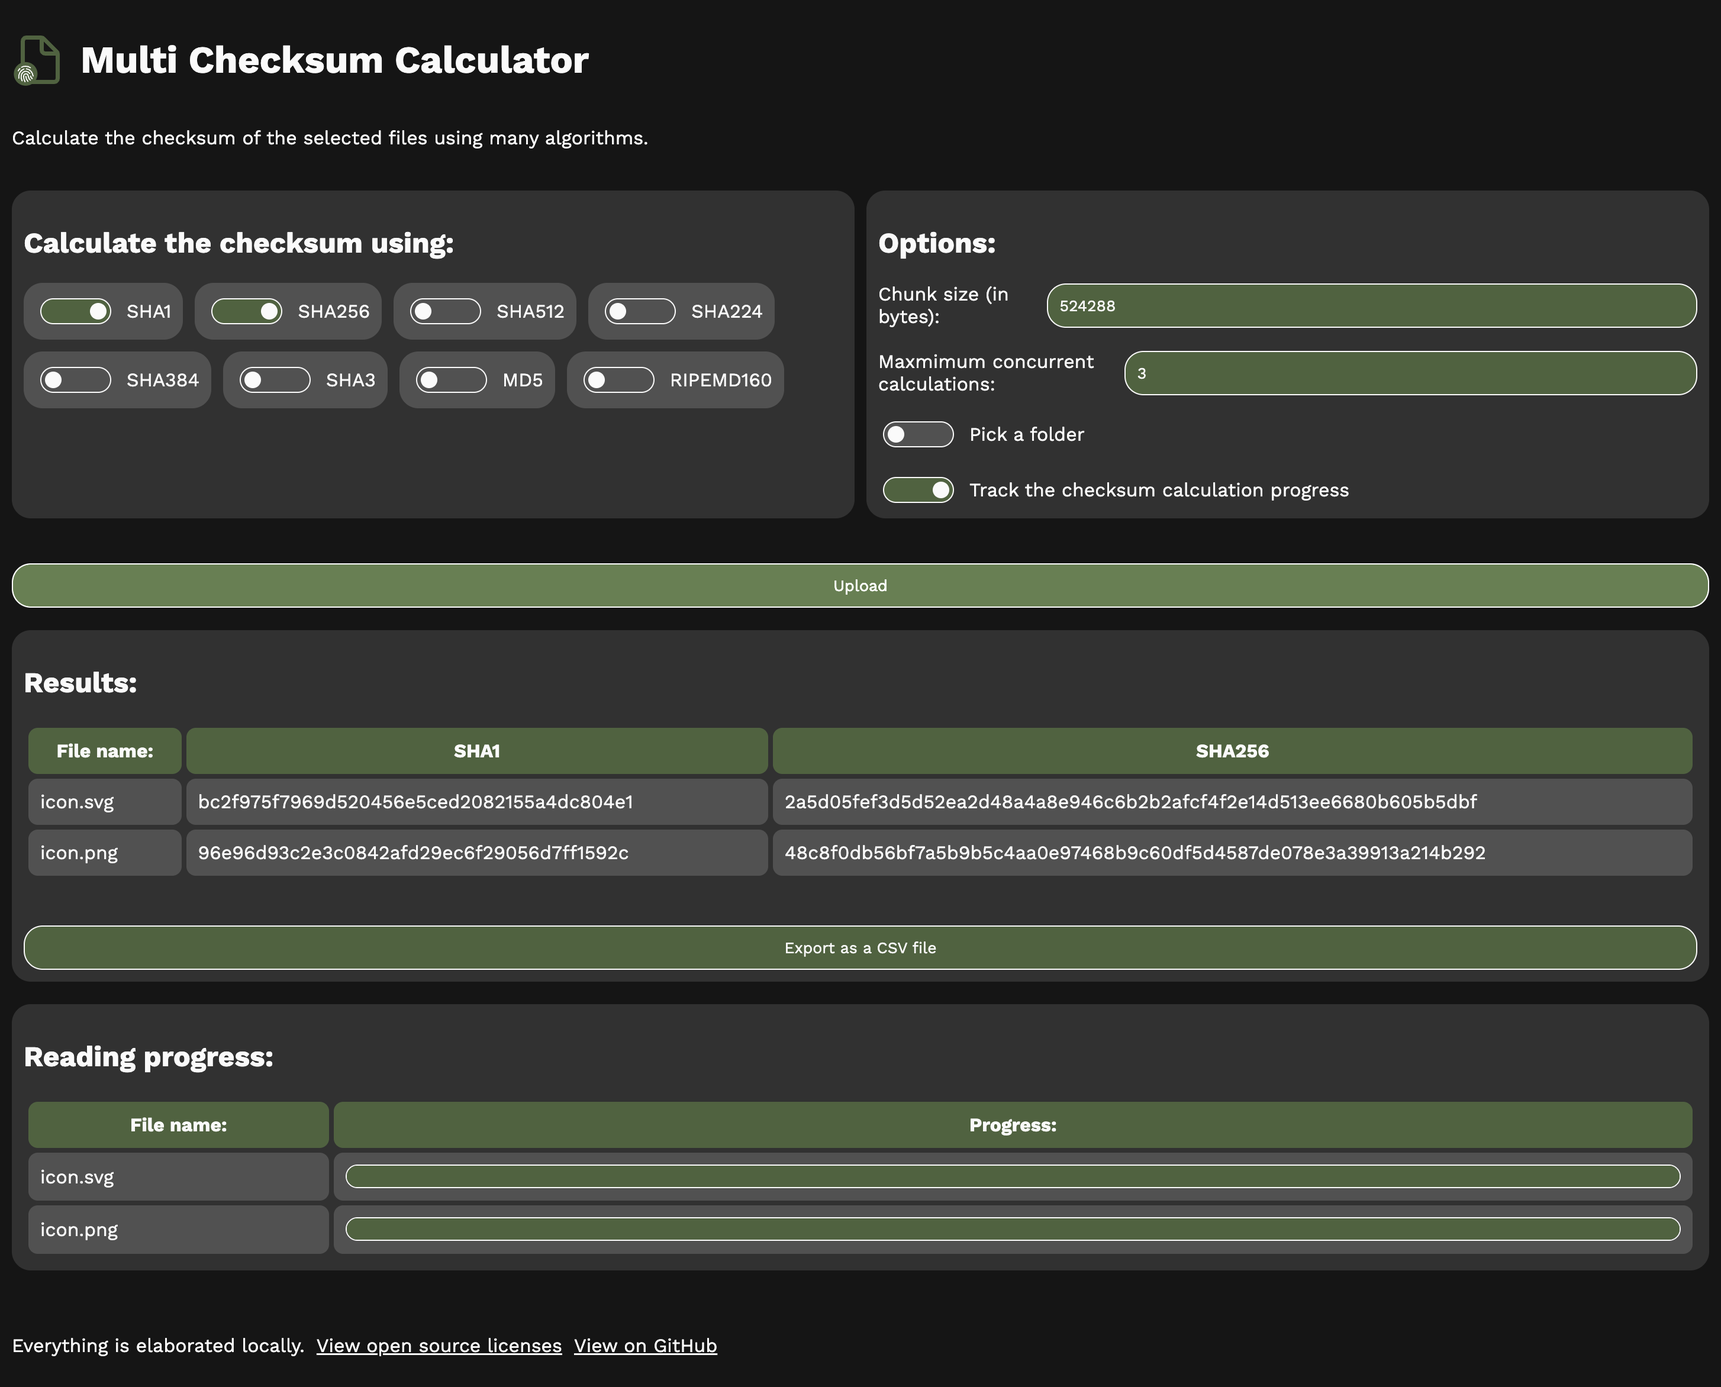
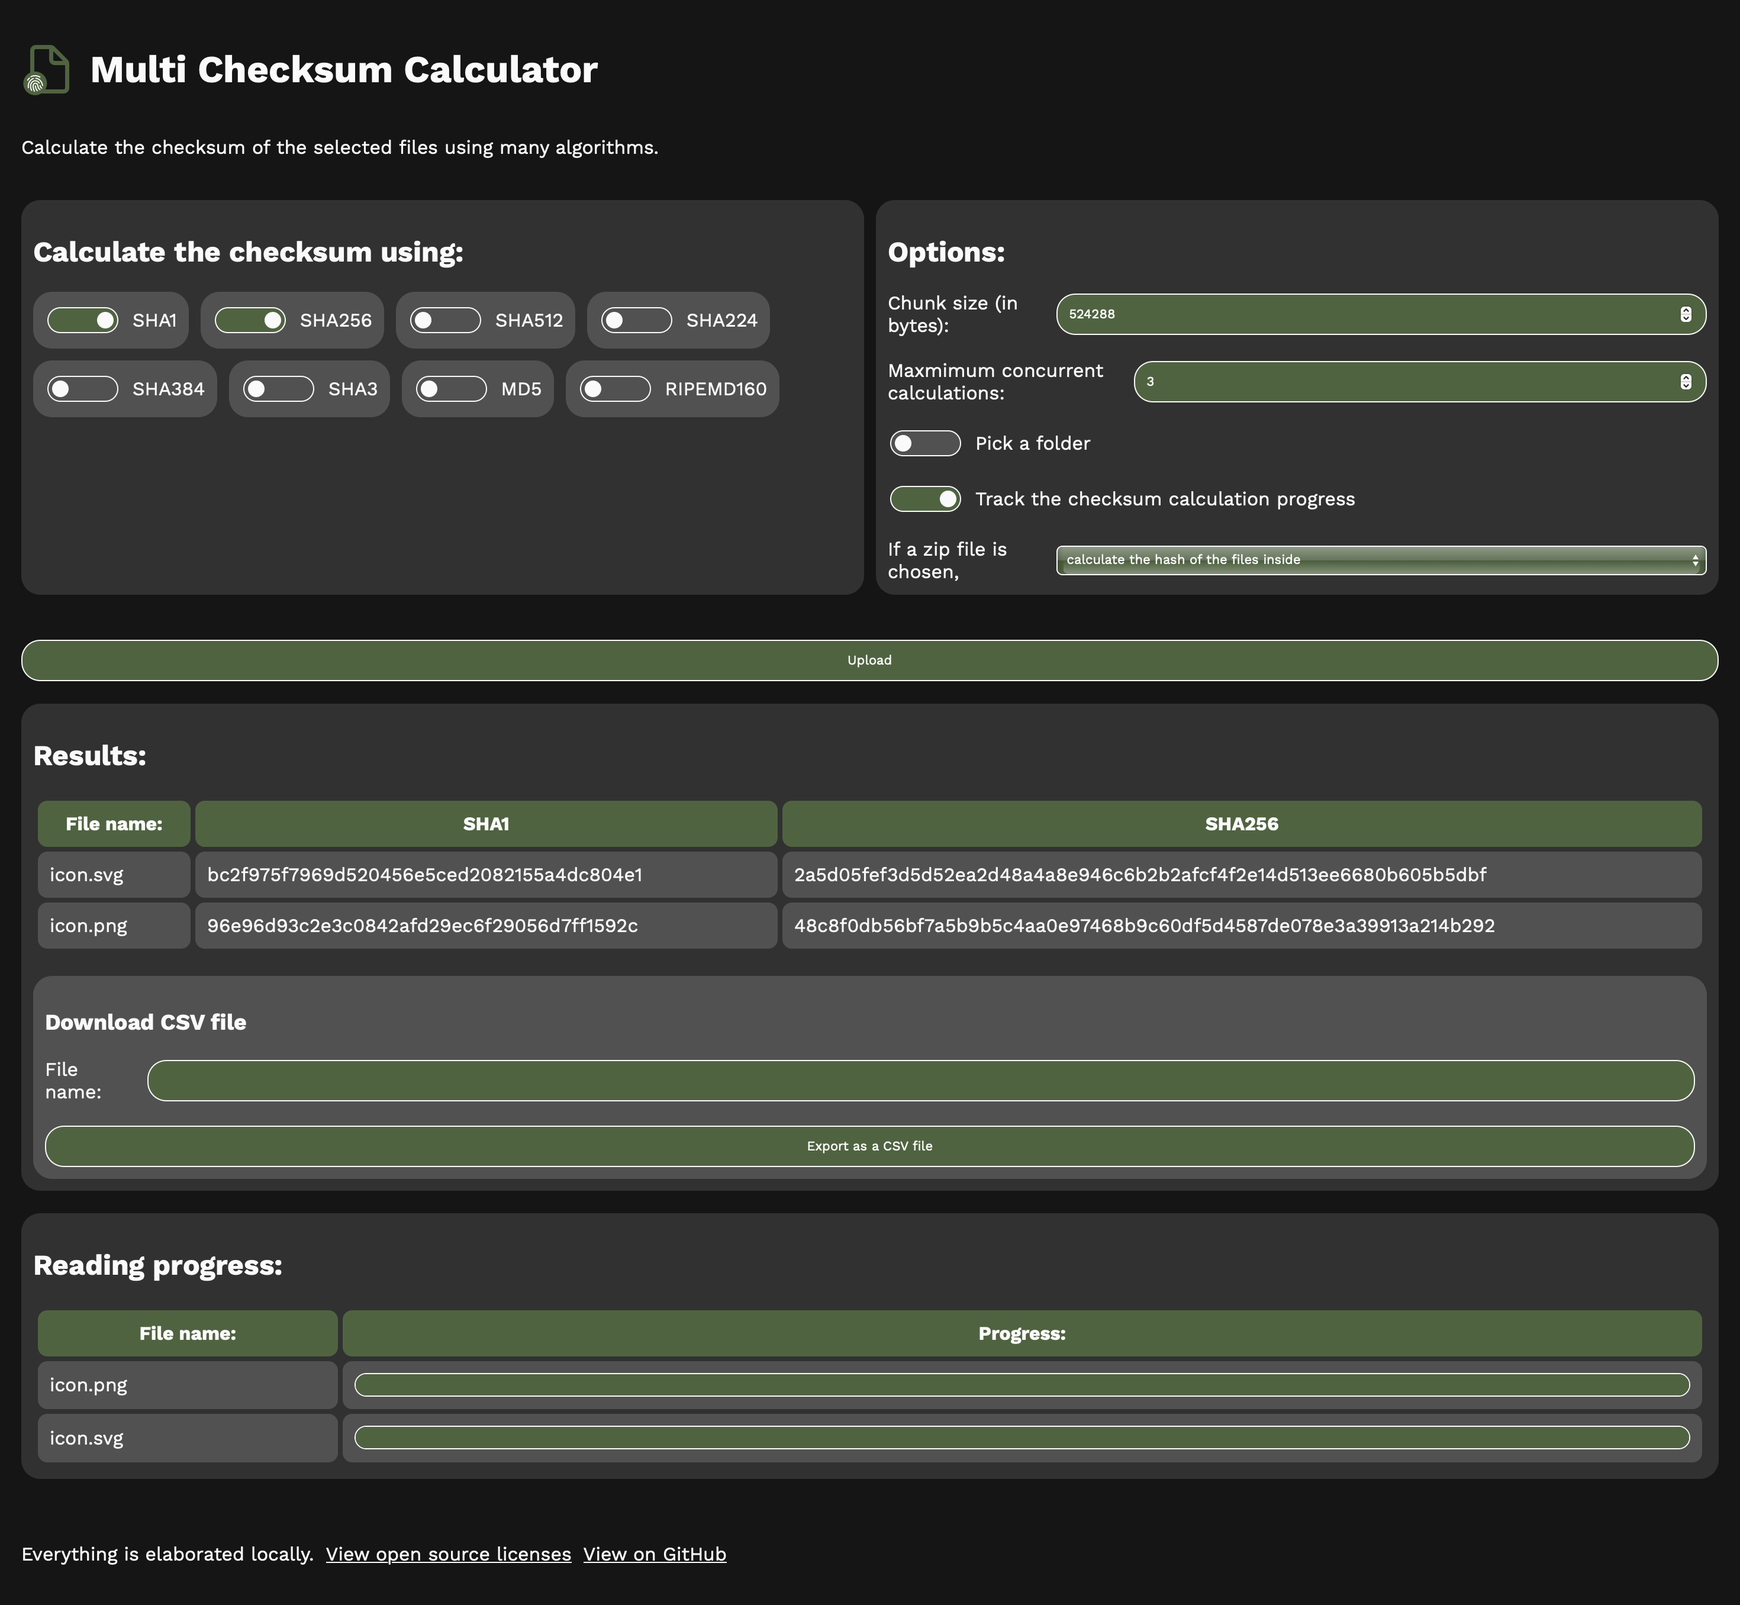
Read inside zip files & local host fonts - You can now calculate the shasum of the files inside a zip file using the zip.js library - Fonts are now hosted directly on GitHub instead of Google Fonts

diff --git a/src/OpenSourceDialog.tsx b/src/OpenSourceDialog.tsx
@@ -1,10 +1,10 @@
 import { useEffect, useRef, useState } from "react";
 
-    interface LicenseOptions {
-        link: string,
-        type: "mit",
-        authors: string
-    }
+interface LicenseOptions {
+    link: string,
+    type: "mit" | "bsd",
+    authors: string
+}
 
 interface Props {
     /**
@@ -16,48 +16,79 @@ interface Props {
  * The Dialog that shows the Open Source licenses
  * @returns the OpenSourceDialog ReactNode
  */
-export default function OpenSourceDialog({close}: Props) {
+export default function OpenSourceDialog({ close }: Props) {
     const licensesLink = new Map<string, LicenseOptions>([
-        ["crypto-js", {type: "mit", authors: "2009-2013 Jeff Mott\nCopyright (c) 2013-2016 Evan Vosberg", link: "https://github.com/brix/crypto-js"}],
-        ["react", {type: "mit", authors: "Meta Platforms, Inc. and affiliates.", link: "https://github.com/facebook/react"}],
-        ["fluent", {type: "mit", authors: "2020 Microsoft Corporation", link: "https://github.com/microsoft/fluentui-system-icons"}],
-        ["multichecksumcalc", {type: "mit", authors: "2025 Dinoosauro", link: "https://github.com/dinoosauro/multi-checksum-calculator"}]
+        ["crypto-js", { type: "mit", authors: "2009-2013 Jeff Mott\nCopyright (c) 2013-2016 Evan Vosberg", link: "https://github.com/brix/crypto-js" }],
+        ["react", { type: "mit", authors: "Meta Platforms, Inc. and affiliates.", link: "https://github.com/facebook/react" }],
+        ["fluent", { type: "mit", authors: "2020 Microsoft Corporation", link: "https://github.com/microsoft/fluentui-system-icons" }],
+        ["multichecksumcalc", { type: "mit", authors: "2025 Dinoosauro", link: "https://github.com/dinoosauro/multi-checksum-calculator" }],
+        ["zipjs", { type: "bsd", authors: "2023, Gildas Lormeau", link: "https://github.com/gildas-lormeau/zip.js" }]
     ]);
     const [selectedEntry, updateSelectedEntry] = useState<LicenseOptions>(licensesLink.get("crypto-js") as LicenseOptions);
     const ref = useRef<HTMLDivElement>(null);
     useEffect(() => {
-            setTimeout(() => {if (ref.current) ref.current.style.opacity = "1"}, 25);
+        setTimeout(() => { if (ref.current) ref.current.style.opacity = "1" }, 25);
     }, [])
     return <div ref={ref} className="dialog">
         <div className="card">
             <h2>Open source licenses</h2>
             <select onChange={(e) => updateSelectedEntry(licensesLink.get(e.target.value) as LicenseOptions)}>
                 <option value="crypto-js">crypto-js</option>
+                <option value="zipjs">zip.js</option>
                 <option value="react">React</option>
                 <option value="fluent">Fluent UI System Icons</option>
                 <option value="multichecksumcalc">Multi Checksum Calculator</option>
             </select><br></br><br></br>
-            <div className="card" style={{backgroundColor: "var(--secondcard)"}}>
-                <p>
-                    MIT License<br></br><br></br>Copyright (c) {selectedEntry.authors}<br></br><br></br>
+            <div className="card" style={{ backgroundColor: "var(--secondcard)" }}>
+                {selectedEntry.type === "mit" ?
+                    <p>
+                        MIT License<br></br><br></br>Copyright (c) {selectedEntry.authors}<br></br><br></br>
 
-Permission is hereby granted, free of charge, to any person obtaining a copy of this software and associated documentation files (the "Software"), to deal in the Software without restriction, including without limitation the rights to use, copy, modify, merge, publish, distribute, sublicense, and/or sell copies of the Software, and to permit persons to whom the Software is furnished to do so, subject to the following conditions:
-<ul>
-    <li>The above copyright notice and this permission notice shall be included in all copies or substantial portions of the Software.</li>
-</ul>
+                        Permission is hereby granted, free of charge, to any person obtaining a copy of this software and associated documentation files (the "Software"), to deal in the Software without restriction, including without limitation the rights to use, copy, modify, merge, publish, distribute, sublicense, and/or sell copies of the Software, and to permit persons to whom the Software is furnished to do so, subject to the following conditions:
+                        <ul>
+                            <li>The above copyright notice and this permission notice shall be included in all copies or substantial portions of the Software.</li>
+                        </ul>
 
-THE SOFTWARE IS PROVIDED "AS IS", WITHOUT WARRANTY OF ANY KIND, EXPRESS OR IMPLIED, INCLUDING BUT NOT LIMITED TO THE WARRANTIES OF MERCHANTABILITY, FITNESS FOR A PARTICULAR PURPOSE AND NONINFRINGEMENT. IN NO EVENT SHALL THE AUTHORS OR COPYRIGHT HOLDERS BE LIABLE FOR ANY CLAIM, DAMAGES OR OTHER LIABILITY, WHETHER IN AN ACTION OF CONTRACT, TORT OR OTHERWISE, ARISING FROM, OUT OF OR IN CONNECTION WITH THE SOFTWARE OR THE USE OR OTHER DEALINGS IN THE SOFTWARE.
+                        THE SOFTWARE IS PROVIDED "AS IS", WITHOUT WARRANTY OF ANY KIND, EXPRESS OR IMPLIED, INCLUDING BUT NOT LIMITED TO THE WARRANTIES OF MERCHANTABILITY, FITNESS FOR A PARTICULAR PURPOSE AND NONINFRINGEMENT. IN NO EVENT SHALL THE AUTHORS OR COPYRIGHT HOLDERS BE LIABLE FOR ANY CLAIM, DAMAGES OR OTHER LIABILITY, WHETHER IN AN ACTION OF CONTRACT, TORT OR OTHERWISE, ARISING FROM, OUT OF OR IN CONNECTION WITH THE SOFTWARE OR THE USE OR OTHER DEALINGS IN THE SOFTWARE.
 
-                </p><br></br>
-                <a href={selectedEntry.link}>View on GitHub</a><br></br><br></br>
+                    </p> : <p>
+                        BSD 3-Clause License<br></br><br></br>
+
+                        Copyright (c) {selectedEntry.authors}<br></br><br></br>
+
+                        Redistribution and use in source and binary forms, with or without
+                        modification, are permitted provided that the following conditions are met:<br></br><br></br>
+                        <ol>
+                            <li>Redistributions of source code must retain the above copyright notice, this
+                                list of conditions and the following disclaimer.</li>
+                            <li>Redistributions in binary form must reproduce the above copyright notice,
+                                this list of conditions and the following disclaimer in the documentation
+                                and/or other materials provided with the distribution.</li>
+                            <li>Neither the name of the copyright holder nor the names of its
+                                contributors may be used to endorse or promote products derived from
+                                this software without specific prior written permission.</li>
+                        </ol><br></br><br></br>
+
+                        THIS SOFTWARE IS PROVIDED BY THE COPYRIGHT HOLDERS AND CONTRIBUTORS "AS IS"
+                        AND ANY EXPRESS OR IMPLIED WARRANTIES, INCLUDING, BUT NOT LIMITED TO, THE
+                        IMPLIED WARRANTIES OF MERCHANTABILITY AND FITNESS FOR A PARTICULAR PURPOSE ARE
+                        DISCLAIMED. IN NO EVENT SHALL THE COPYRIGHT HOLDER OR CONTRIBUTORS BE LIABLE
+                        FOR ANY DIRECT, INDIRECT, INCIDENTAL, SPECIAL, EXEMPLARY, OR CONSEQUENTIAL
+                        DAMAGES (INCLUDING, BUT NOT LIMITED TO, PROCUREMENT OF SUBSTITUTE GOODS OR
+                        SERVICES; LOSS OF USE, DATA, OR PROFITS; OR BUSINESS INTERRUPTION) HOWEVER
+                        CAUSED AND ON ANY THEORY OF LIABILITY, WHETHER IN CONTRACT, STRICT LIABILITY,
+                        OR TORT (INCLUDING NEGLIGENCE OR OTHERWISE) ARISING IN ANY WAY OUT OF THE USE
+                        OF THIS SOFTWARE, EVEN IF ADVISED OF THE POSSIBILITY OF SUCH DAMAGE.
+                    </p>}<br></br>
+                <a href={selectedEntry.link} target="_blank">View on GitHub</a><br></br><br></br>
             </div><br></br>
-                <button onClick={async () => {
-                    if (ref.current) {
-                        ref.current.style.opacity = "0";
-                        await new Promise(res => setTimeout(res, 210));
-                        close();
-                    }
-                }}>Close</button>
+            <button onClick={async () => {
+                if (ref.current) {
+                    ref.current.style.opacity = "0";
+                    await new Promise(res => setTimeout(res, 210));
+                    close();
+                }
+            }}>Close</button>
         </div>
     </div>
 }

diff --git a/src/App.tsx b/src/App.tsx
@@ -3,11 +3,38 @@ import CryptoJS from "crypto-js";
 import OpenSourceDialog from "./OpenSourceDialog";
 import type { AlgoStorage, AlgoType } from "./Interfaces";
 import HandleDroppedFiles from "./HandleDroppedFiles";
+import type { Entry, ZipReader } from "@zip.js/zip.js";
+// @ts-ignore | Import normal font
+import "@fontsource/work-sans/400";
+// @ts-ignore | Import bold font
+import "@fontsource/work-sans/700";
 
 declare global {
   interface File {
     _path: string
   }
+}
+
+/**
+ * The interface used by the script to read files from Zip.JS
+ */
+interface ZipStreamStore {
+  /**
+   * The ZipReader used for this zip file
+   */
+  zipFile: ZipReader<Blob>,
+  /**
+   * The single zip entry to read
+   */
+  data: Entry,
+  /**
+   * The filename of the entry
+   */
+  _path: string,
+  /**
+   * The size of the entry
+   */
+  size: number
 }
 
 export default function App() {
@@ -20,7 +47,8 @@ export default function App() {
     chunkSize: 1024 * 512,
     pickFolder: false,
     hasSettingsBeenRestored: false,
-    trackProgress: true
+    trackProgress: true,
+    readZip: 0
   });
   /**
    * Save the user settings in the LocalStorage
@@ -33,7 +61,7 @@ export default function App() {
    * The array of files that need to be converted.
    * This is saved in an independent array so that we can keep track of the number of concurrent operations.
    */
-  let fileArr = useRef<File[]>([]);
+  let fileArr = useRef<(File | ZipStreamStore)[]>([]);
   /**
    * The content that should be displayed in the "Results tabs"
    */
@@ -143,6 +171,7 @@ export default function App() {
     * The information about the current progress
     */
     let currentProgress: OutputProgress = {
+      // @ts-ignore
       fileName: file._path || file.webkitRelativePath || file.name,
       max: file.size,
       id: CryptoJS.lib.WordArray.random(16).toString(CryptoJS.enc.Hex)
@@ -151,6 +180,10 @@ export default function App() {
     const promises = new Map<string, () => void>([]);
     worker.onmessage = (msg) => {
       switch (msg.data.action) {
+        case "UpdateProgress": {
+          if (currentProgress.progress) currentProgress.progress.value += msg.data.content;
+          break;
+        }
         case "HashesReady": {
           /**
           * The checksums in the position they needed to be added in the "Result" table
@@ -160,6 +193,7 @@ export default function App() {
             outputStrings[currentTable.indexOf(item.item)] = item.hash;
           }
           updateResults(prev => [...prev, {
+            // @ts-ignore
             fileName: file._path || file.webkitRelativePath || file.name,
             hashes: outputStrings,
             id: CryptoJS.lib.WordArray.random(16).toString(CryptoJS.enc.Hex),
@@ -186,16 +220,30 @@ export default function App() {
       promises.set(id, res);
       worker.postMessage({ action: "Start", content: outputOptions, id });
     });
+    if (file instanceof File) {
     for (let offset = 0; offset < file.size; offset += conversionSettings.current.chunkSize) { // Let's get this chunk of the Blob, and continue handling the hash.                 
       const chunk = file.slice(offset, offset + conversionSettings.current.chunkSize);
       const arrayBuffer = await chunk.arrayBuffer();
-      if (currentProgress.progress) currentProgress.progress.value += conversionSettings.current.chunkSize; // Maybe React still hasn't updated the DOM, so this might be undefined.                 
       await new Promise<void>(res => { // Wait that the worker adds this ArrayBuffer
         const id = CryptoJS.lib.WordArray.random(16).toString(CryptoJS.enc.Hex);
         promises.set(id, res);
         worker.postMessage({ action: "AddBuffer", id, content: arrayBuffer }, [arrayBuffer]);
       })
     }
+  } else await new Promise<void>(res => { // Read a zip file. We'll create a new WritableStream, that'll send all the chunks to the ArrayBuffer
+    if (file.data.getData) file.data.getData(new WritableStream({ 
+      write: async (chunk) => {
+        await new Promise<void>(res => {
+          const id = CryptoJS.lib.WordArray.random(16).toString(CryptoJS.enc.Hex);
+          promises.set(id, res);
+          worker.postMessage({ action: "AddBuffer", id, content: chunk.buffer }, [chunk.buffer]);
+        });
+      },
+      close: () => {
+        res();
+      }
+    }));
+  })
     await new Promise<void>(res => { // Wait that the Worker finalizes the hashes
       const id = CryptoJS.lib.WordArray.random(16).toString(CryptoJS.enc.Hex);
       promises.set(id, res);
@@ -228,9 +276,24 @@ export default function App() {
   /**
    * Start the calculation of the checksum of the files.
    */
-  function handleNewFiles(files: File[] | FileList) {
+  async function handleNewFiles(files: File[] | FileList) {
     updateShowTables(true); // Show the Progress and Result tables
-    fileArr.current.push(...files);
+    for (const file of files) {
+      if (file.name.endsWith(".zip") && conversionSettings.current.readZip > 0) { // If "1", calculate the
+        const zip = await import("@zip.js/zip.js");
+        // Read the zip file
+        const reader = new zip.ZipReader<Blob>(new zip.BlobReader(file));
+        const entries = await reader.getEntries();
+        console.log(`Adding ${entries.length} files from zip ${file.name}`);
+        for (const entry of entries) entry.getData && !entry.directory && fileArr.current.push({ // Set the new entry in the file array
+          zipFile: reader,
+          data: entry,
+          _path: entry.filename,
+          size: entry.uncompressedSize
+        });
+        conversionSettings.current.readZip === 2 && fileArr.current.push(file); // Calculate the hash also of the zip file
+      } else fileArr.current.push(file);
+    }
     console.log(`Added ${files.length} files`)
     for (let i = 0; i < Math.min(conversionSettings.current.maxOperations, files.length); i++) getShaSum();
   }
@@ -278,6 +341,13 @@ export default function App() {
         </label><br></br>
         <label className="flex hcenter gap">
           <input type="checkbox" defaultChecked={conversionSettings.current.trackProgress} onChange={(e) => { conversionSettings.current.trackProgress = e.target.checked; saveSettings() }}></input>Track the checksum calculation progress
+        </label><br></br>
+        <label className="flex hcenter gap">
+          If a zip file is chosen, <select defaultValue={conversionSettings.current.readZip} onChange={(e) => {conversionSettings.current.readZip = +e.target.value; saveSettings();}}>
+            <option value={0}>calculate the hash of the zip file</option>
+            <option value={1}>calculate the hash of the files inside</option>
+            <option value={2}>calculate the hash of the files inside and of the zip file</option>
+          </select>
         </label>
       </div>
     </div><br></br><br></br>

diff --git a/index.html b/index.html
@@ -3,10 +3,8 @@
 
 <head>
   <meta charset="UTF-8" />
-  <link rel="icon" type="image/svg+xml" href="/vite.svg" />
+  <link rel="icon" type="image/svg+xml" href="/icon.svg" />
   <meta name="viewport" content="width=device-width, initial-scale=1.0" />
-  <link href="https://fonts.googleapis.com/css2?family=Work+Sans:ital,wght@0,100..900;1,100..900&display=swap"
-    rel="stylesheet">
   <link rel="icon" href="./icon.svg">
   <link rel="manifest" href="./manifest.json">
     <meta name="description"
@@ -18,7 +16,7 @@
   <div id="root"></div>
   <script type="module" src="/src/main.tsx"></script>
   <script>
-    const version = "1.0.3";
+    const version = "1.1.0";
     (async () => {
       const result = await navigator.serviceWorker.register('./service-worker.js', { scope: location.href.substring(0, location.href.lastIndexOf("/") + 1) });
       if (navigator.onLine) await result.update();

diff --git a/src/Worker.ts b/src/Worker.ts
@@ -23,7 +23,7 @@ onmessage = (msg) => {
         case "AddBuffer": { // Add a small ArrayBuffer to the hash
             const wordArray = CryptoJS.lib.WordArray.create(msg.data.content as ArrayBuffer);
             for (const { hash } of hashes) hash.update(wordArray);
-            postMessage({ id: msg.data.id });
+            postMessage({ id: msg.data.id, content: (msg.data.content as ArrayBuffer).byteLength, action: "UpdateProgress" });
             break;
         }
         case "GetString": { // Finalize the array

diff --git a/public/service-worker.js b/public/service-worker.js
@@ -7,7 +7,9 @@ const filestoCache = [
     './icon.svg',
     './assets/index.css',
     './assets/index.js',
-    './assets/Worker-BAaLMeMy.js'
+    './assets/work-sans-latin-400-normal.woff2',
+    './assets/work-sans-latin-700-normal.woff2',
+    './assets/Worker-Do2N9Jii.js'
 ];
 self.addEventListener('install', e => {
     e.waitUntil(

diff --git a/src/index.css b/src/index.css
@@ -185,3 +185,6 @@ a {
 .wcenter {
   justify-content: center;
 }
+select {
+  width: 100%;
+}

diff --git a/README.md b/README.md
@@ -7,6 +7,12 @@ Try it: https://dinoosauro.github.io/multi-checksum-calculator/
 
 Open the webpage. You'll find at the left a list of hashing algorithms to choose from, and at the right you'll find some conversions options. Then, you'll be able to choose some files to calculate their hash. Everything happens inside your browser, so this might take a while. You're able to track the progress from the "Progress" table that'll appear at the bottom of the page, below the "Results" table where all of the selected hashes will be displayed. 
 
+If you choose a zip file, you can choose in the settings:
+- To calculate the hash of that single file;
+- To calculate tha hash of the files inside the zip file;
+- Or both.
+
+
 You can also download the "Result" table as a CSV file, so that you can keep the calculated checksums.
 
 ![Screenshot of the UI](./readme_screenshot.png)
